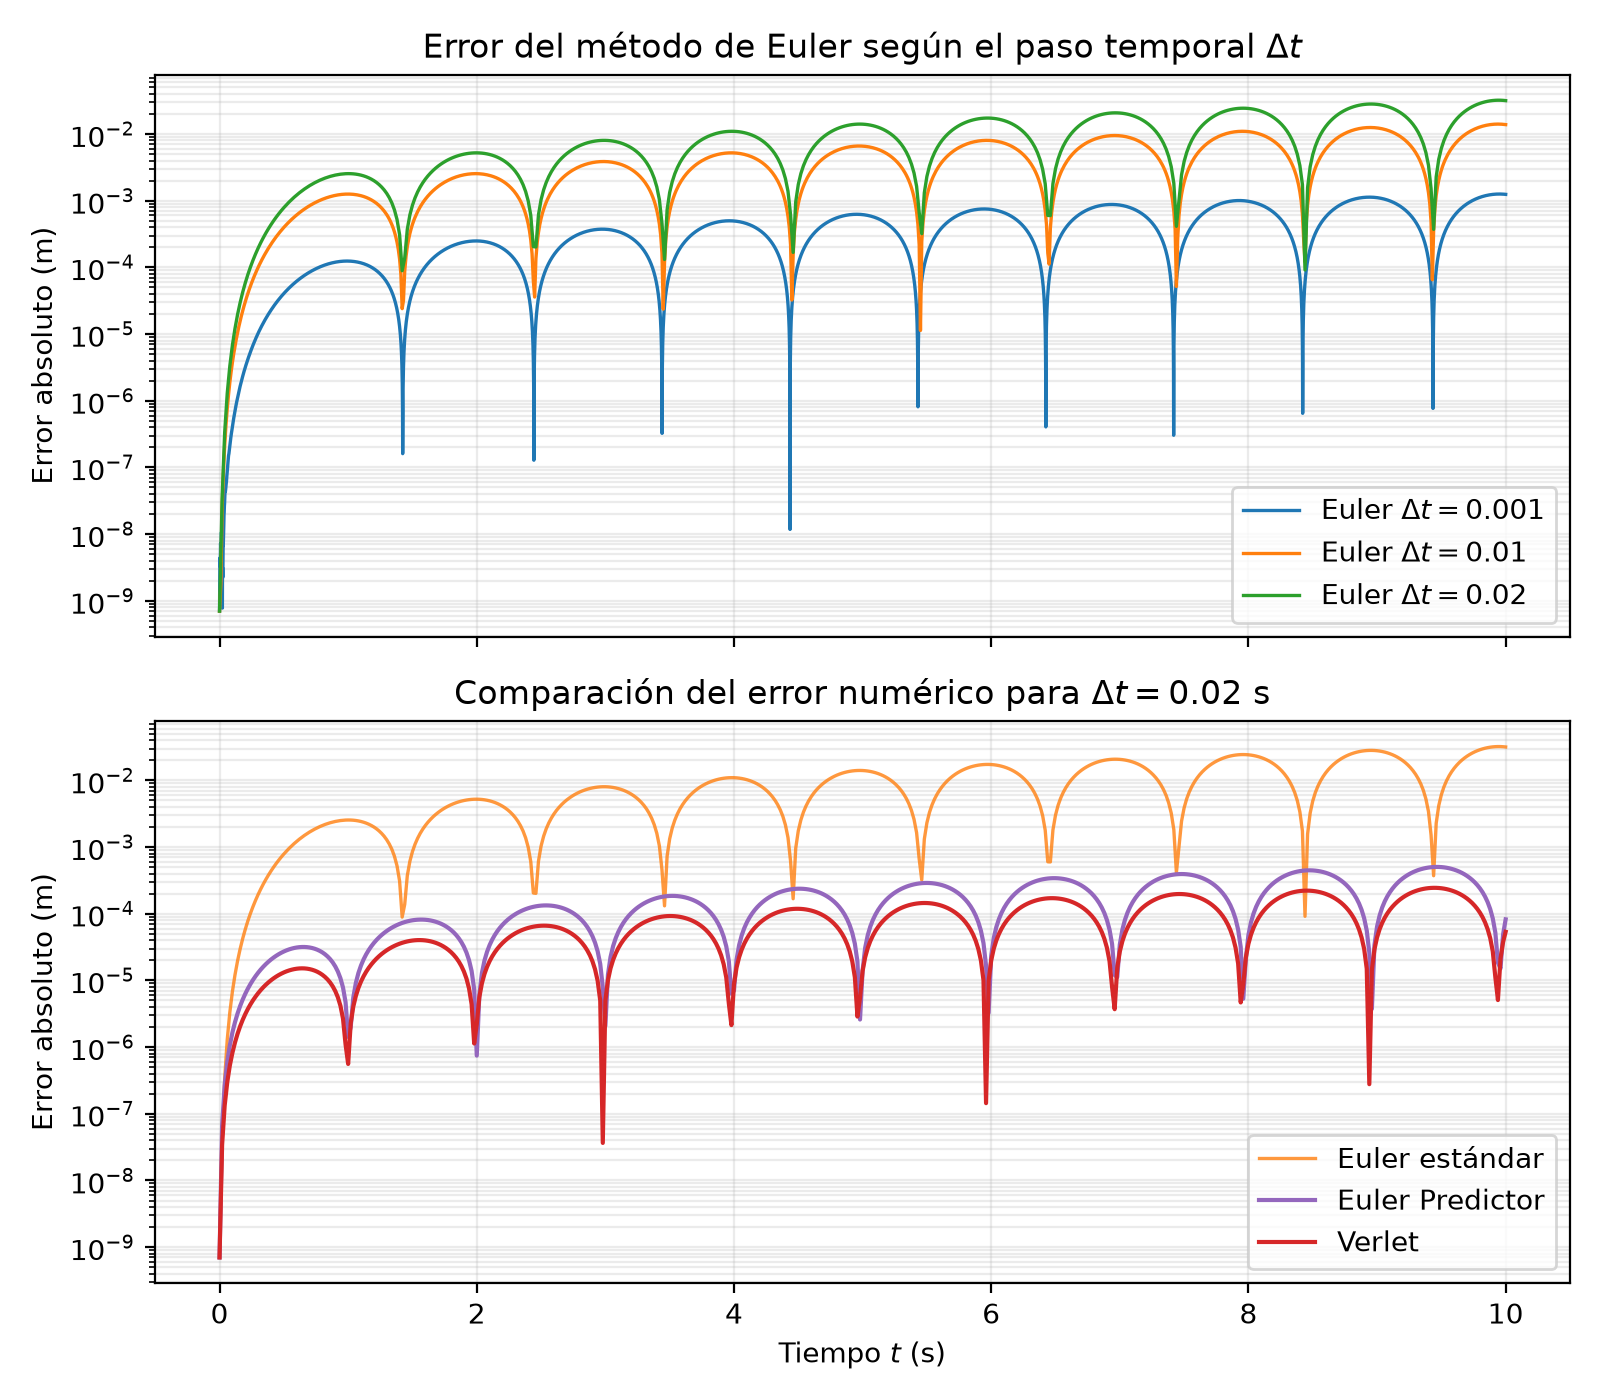
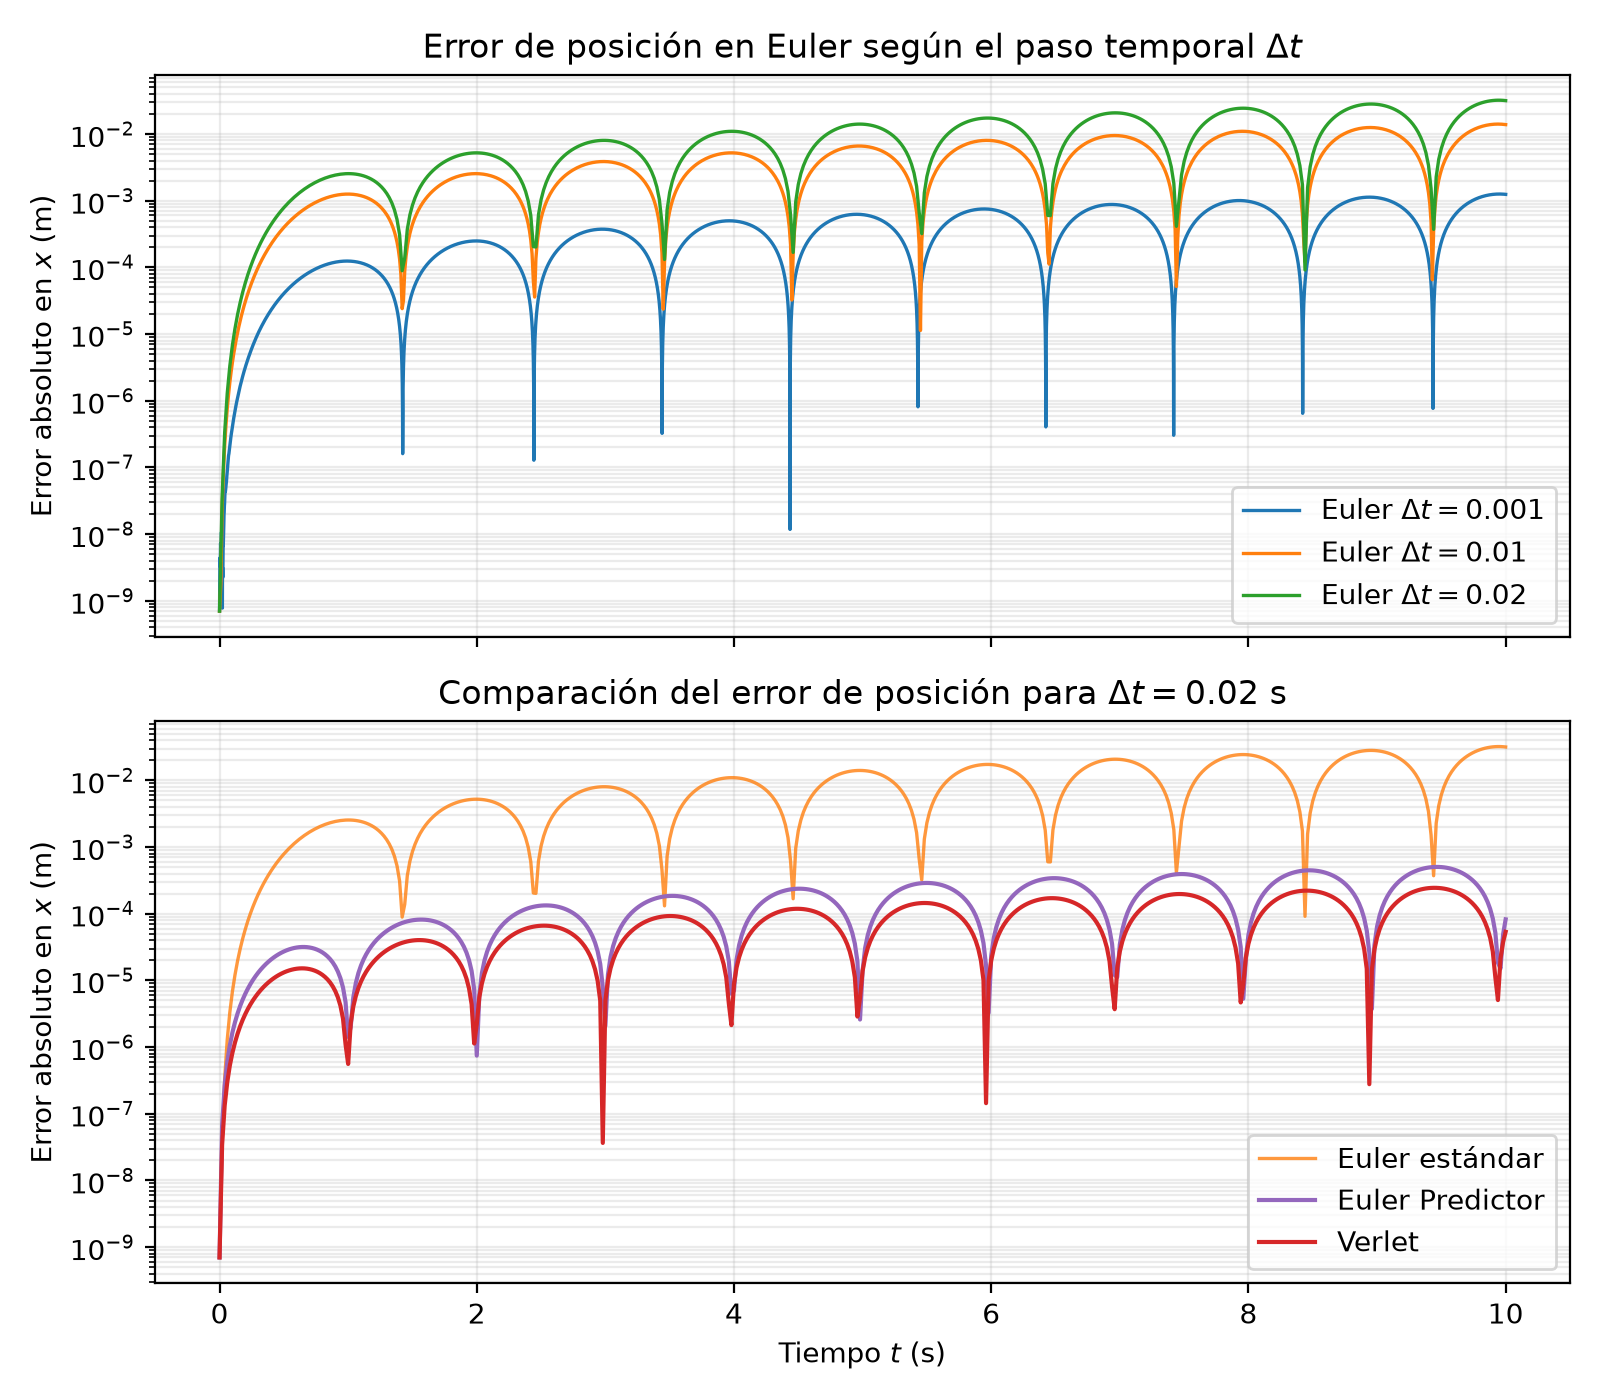
Add new energy error plot and update existing plots in plot_ex5.py
- Introduced a new plot for energy error comparisons across methods.
- Updated existing plots to enhance labeling and clarity, including renaming 'Velocity-Verlet' to 'Verlet'.
- Added calculations for absolute energy errors in the plotting script.
- Updated output messages to reflect the new plot generation.

diff --git a/P1/ex5/plot_ex5.py b/P1/ex5/plot_ex5.py
@@ -9,17 +9,25 @@ t_02,  x_02,  _, ek_02,  ep_02,  etot_02  = np.loadtxt("euler_02.dat",  skiprows
 t_prd, x_prd, _, ek_prd, ep_prd, etot_prd = np.loadtxt("euler_predictor.dat", skiprows=1, unpack=True)
 t_ver, x_ver, _, ek_ver, ep_ver, etot_ver = np.loadtxt("verlet.dat",    skiprows=1, unpack=True)
 
-# Solución analítica y cálculo de errores de posición
+# Solución analítica y cálculo de referencias
 omega = np.sqrt(2.0 / 0.200)
 t_fine = np.linspace(0.0, 4.0, 1000)
 x_exact = 0.05 * np.cos(omega * t_fine)
-e_exact = 0.5 * 2.0 * (0.05**2)  # E0 = 1/2 * k * x0^2 = 0.0025 J
+e_exact = 0.5 * 2.0 * (0.05**2)  # E0 = 0.0025 J
 
+# Errores absolutos de posición
 err_001 = np.abs(x_001 - 0.05 * np.cos(omega * t_001))
 err_01  = np.abs(x_01  - 0.05 * np.cos(omega * t_01))
 err_02  = np.abs(x_02  - 0.05 * np.cos(omega * t_02))
 err_prd = np.abs(x_prd - 0.05 * np.cos(omega * t_prd))
 err_ver = np.abs(x_ver - 0.05 * np.cos(omega * t_ver))
+
+# Errores absolutos de energía (|Etot - E0|)
+err_e_001 = np.abs(etot_001 - e_exact)
+err_e_01  = np.abs(etot_01  - e_exact)
+err_e_02  = np.abs(etot_02  - e_exact)
+err_e_prd = np.abs(etot_prd - e_exact)
+err_e_ver = np.abs(etot_ver - e_exact)
 
 # ==========================================
 # FIGURA 1: POSICIONES
@@ -38,7 +46,7 @@ ax1_pos.legend(loc="upper left")
 ax2_pos.plot(t_fine, x_exact, "k--", lw=1.2, label="Analítica", alpha=0.7)
 ax2_pos.plot(t_02,  x_02,  color="#ff7f0e", label="Euler estándar", alpha=0.8)
 ax2_pos.plot(t_prd, x_prd, color="#9467bd", label="Euler Predictor", lw=1.5)
-ax2_pos.plot(t_ver, x_ver, color="#d62728", label="Velocity-Verlet", lw=1.5)
+ax2_pos.plot(t_ver, x_ver, color="#d62728", label="Verlet", lw=1.5)
 ax2_pos.set_xlabel("Tiempo $t$ (s)")
 ax2_pos.set_ylabel("Posición $x$ (m)")
 ax2_pos.set_title(r"Comparación de métodos para $\Delta t = 0.02$ s")
@@ -49,15 +57,15 @@ fig1.tight_layout()
 fig1.savefig("ex5_pos_plot.png", dpi=200)
 
 # ==========================================
-# FIGURA 2: ERRORES (semilogy)
+# FIGURA 2: ERRORES DE POSICIÓN (semilogy)
 # ==========================================
 fig2, (ax1_err, ax2_err) = plt.subplots(2, 1, figsize=(8, 7), sharex=True)
 
 ax1_err.semilogy(t_001, err_001, color="#1f77b4", lw=1.2, label=r"Euler $\Delta t = 0.001$")
 ax1_err.semilogy(t_01,  err_01,  color="#ff7f0e", lw=1.2, label=r"Euler $\Delta t = 0.01$")
 ax1_err.semilogy(t_02,  err_02,  color="#2ca02c", lw=1.2, label=r"Euler $\Delta t = 0.02$")
-ax1_err.set_ylabel("Error absoluto (m)")
-ax1_err.set_title(r"Error del método de Euler según el paso temporal $\Delta t$")
+ax1_err.set_ylabel("Error absoluto en $x$ (m)")
+ax1_err.set_title(r"Error de posición en Euler según el paso temporal $\Delta t$")
 ax1_err.grid(True, which="both", alpha=0.25)
 ax1_err.legend(loc="lower right")
 
@@ -65,8 +73,8 @@ ax2_err.semilogy(t_02,  err_02,  color="#ff7f0e", lw=1.2, label="Euler estándar
 ax2_err.semilogy(t_prd, err_prd, color="#9467bd", lw=1.5, label="Euler Predictor")
 ax2_err.semilogy(t_ver, err_ver, color="#d62728", lw=1.5, label="Verlet")
 ax2_err.set_xlabel("Tiempo $t$ (s)")
-ax2_err.set_ylabel("Error absoluto (m)")
-ax2_err.set_title(r"Comparación del error numérico para $\Delta t = 0.02$ s")
+ax2_err.set_ylabel("Error absoluto en $x$ (m)")
+ax2_err.set_title(r"Comparación del error de posición para $\Delta t = 0.02$ s")
 ax2_err.grid(True, which="both", alpha=0.25)
 ax2_err.legend(loc="lower right")
 
@@ -98,14 +106,14 @@ ax2_e.set_title(r"Balance energético: Euler Predictor ($\Delta t = 0.02$ s)")
 ax2_e.grid(True, alpha=0.25)
 ax2_e.legend(loc="upper left")
 
-# Subplot 3: Velocity-Verlet
+# Subplot 3: Verlet
 ax3_e.plot(t_ver, ek_ver, color="#1f77b4", label=r"Cinética $E_k$")
 ax3_e.plot(t_ver, ep_ver, color="#2ca02c", label=r"Potencial $E_p$")
 ax3_e.plot(t_ver, etot_ver, color="#d62728", lw=1.5, label=r"Total $E_{tot}$")
 ax3_e.axhline(e_exact, color="black", linestyle="--", lw=1.0, alpha=0.7, label=r"$E_0$ analítica")
 ax3_e.set_xlabel("Tiempo $t$ (s)")
 ax3_e.set_ylabel("Energía (J)")
-ax3_e.set_title(r"Balance energético: Velocity-Verlet ($\Delta t = 0.02$ s)")
+ax3_e.set_title(r"Balance energético: Verlet ($\Delta t = 0.02$ s)")
 ax3_e.grid(True, alpha=0.25)
 ax3_e.legend(loc="upper left")
 
@@ -119,7 +127,7 @@ fig4, ax_tot = plt.subplots(figsize=(8, 4.5))
 
 ax_tot.plot(t_02,  etot_02,  color="#ff7f0e", label="Euler estándar", alpha=0.8)
 ax_tot.plot(t_prd, etot_prd, color="#9467bd", label="Euler Predictor", lw=1.5)
-ax_tot.plot(t_ver, etot_ver, color="#d62728", label="Velocity-Verlet", lw=1.5)
+ax_tot.plot(t_ver, etot_ver, color="#d62728", label="Verlet", lw=1.5)
 ax_tot.axhline(e_exact, color="black", linestyle="--", lw=1.0, alpha=0.7, label=r"$E_0$ analítica")
 ax_tot.set_xlabel("Tiempo $t$ (s)")
 ax_tot.set_ylabel(r"Energía Total $E_{tot}$ (J)")
@@ -130,10 +138,38 @@ ax_tot.legend(loc="upper left")
 fig4.tight_layout()
 fig4.savefig("ex5_total_energy_plot.png", dpi=200)
 
+# ==========================================
+# FIGURA 5: ERROR DE CONSERVACIÓN DE ENERGÍA (semilogy)
+# ==========================================
+fig5, (ax1_ee, ax2_ee) = plt.subplots(2, 1, figsize=(8, 7), sharex=True)
+
+# Subplot 1: Efecto del dt en Euler
+ax1_ee.semilogy(t_001, err_e_001, color="#1f77b4", lw=1.2, label=r"Euler $\Delta t = 0.001$")
+ax1_ee.semilogy(t_01,  err_e_01,  color="#ff7f0e", lw=1.2, label=r"Euler $\Delta t = 0.01$")
+ax1_ee.semilogy(t_02,  err_e_02,  color="#2ca02c", lw=1.2, label=r"Euler $\Delta t = 0.02$")
+ax1_ee.set_ylabel(r"$|E_{tot} - E_0|$ (J)")
+ax1_ee.set_title(r"Error absoluto de energía en Euler según $\Delta t$")
+ax1_ee.grid(True, which="both", alpha=0.25)
+ax1_ee.legend(loc="lower right")
+
+# Subplot 2: Comparativa de métodos para dt = 0.02 s
+ax2_ee.semilogy(t_02,  err_e_02,  color="#ff7f0e", lw=1.2, label="Euler estándar", alpha=0.8)
+ax2_ee.semilogy(t_prd, err_e_prd, color="#9467bd", lw=1.5, label="Euler Predictor")
+ax2_ee.semilogy(t_ver, err_e_ver, color="#d62728", lw=1.5, label="Verlet")
+ax2_ee.set_xlabel("Tiempo $t$ (s)")
+ax2_ee.set_ylabel(r"$|E_{tot} - E_0|$ (J)")
+ax2_ee.set_title(r"Comparación del error de energía entre métodos ($\Delta t = 0.02$ s)")
+ax2_ee.grid(True, which="both", alpha=0.25)
+ax2_ee.legend(loc="lower right")
+
+fig5.tight_layout()
+fig5.savefig("ex5_energy_error_plot.png", dpi=200)
+
 plt.show()
 
 print("Gráficos generados:")
 print(" - ex5_pos_plot.png")
 print(" - ex5_error_plot.png")
-print(" - ex5_energy_plot.png (desglose Ek, Ep, Etot para Euler, Predictor y Verlet)")
-print(" - ex5_total_energy_plot.png (comparación directa de Etot)")
+print(" - ex5_energy_plot.png")
+print(" - ex5_total_energy_plot.png")
+print(" - ex5_energy_error_plot.png")
